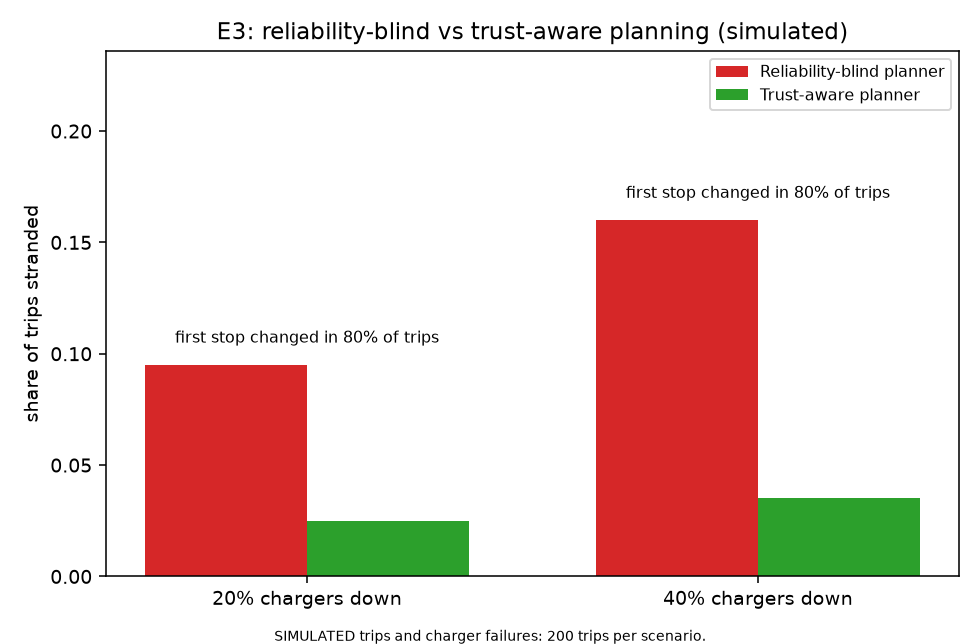
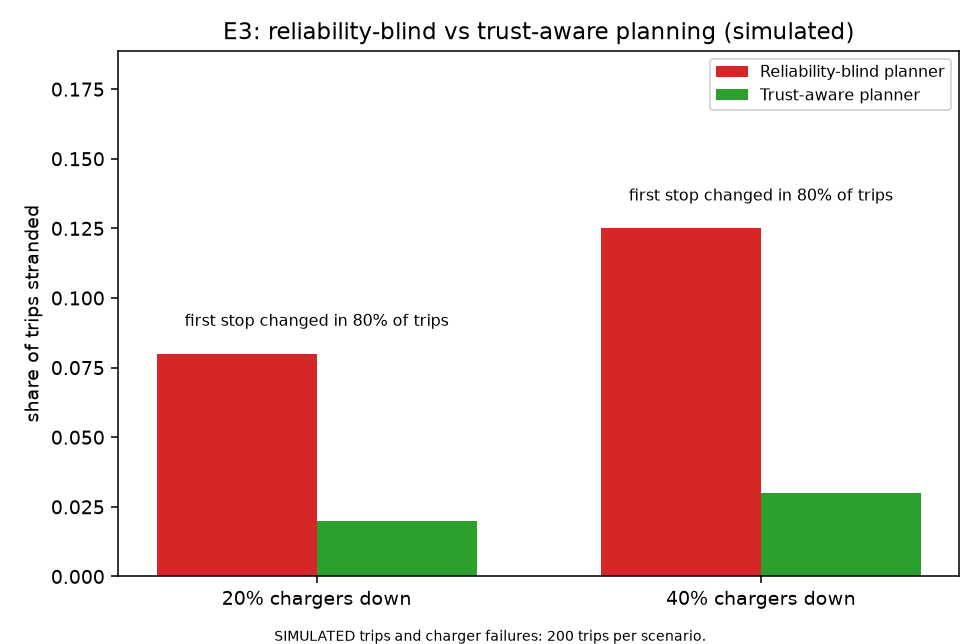
chore: regenerate simulated results and README tables after the WP3b planner

diff --git a/README.md b/README.md
@@ -105,9 +105,9 @@ stale). A count of 0 means nothing has been collected yet. The live version is `
 | Result | Data | n | Outcome |
 |---|---|---|---|
 | E4 stranded trips, 0% chargers down | simulated | 200 trips | fixed plan 9.0% (5.8% to 13.8%), dispatch 3.5% (1.7% to 7.0%) |
-| E4 stranded trips, 20% chargers down | simulated | 200 trips | fixed plan 20.5% (15.5% to 26.6%), dispatch 2.5% (1.1% to 5.7%) |
-| E4 stranded trips, 40% chargers down | simulated | 200 trips | fixed plan 37.5% (31.1% to 44.4%), dispatch 3.5% (1.7% to 7.0%) |
-| E3 stranded trips, 40% chargers down | simulated | 200 trips | reliability-blind 16.0%, trust-aware 3.5% |
+| E4 stranded trips, 20% chargers down | simulated | 200 trips | fixed plan 22.0% (16.8% to 28.2%), dispatch 2.0% (0.8% to 5.0%) |
+| E4 stranded trips, 40% chargers down | simulated | 200 trips | fixed plan 32.0% (25.9% to 38.8%), dispatch 3.0% (1.4% to 6.4%) |
+| E3 stranded trips, 40% chargers down | simulated | 200 trips | reliability-blind 12.5%, trust-aware 3.0% |
 | E2 the 90% arrival band covers the outcome | simulated | 540 trips | shared trip factors 91.8%, independent segments 27.6% |
 | BMW i3 usable-capacity error | REAL (Germany) | 19 trips | -10.5%; truth inside the 95% interval: yes, inside the 80% interval: no |
 | BMW i3 battery drop per trip | REAL (Germany) | 19 trips | median error 0.95 points; the 95% band covers 47.0% of trips |
